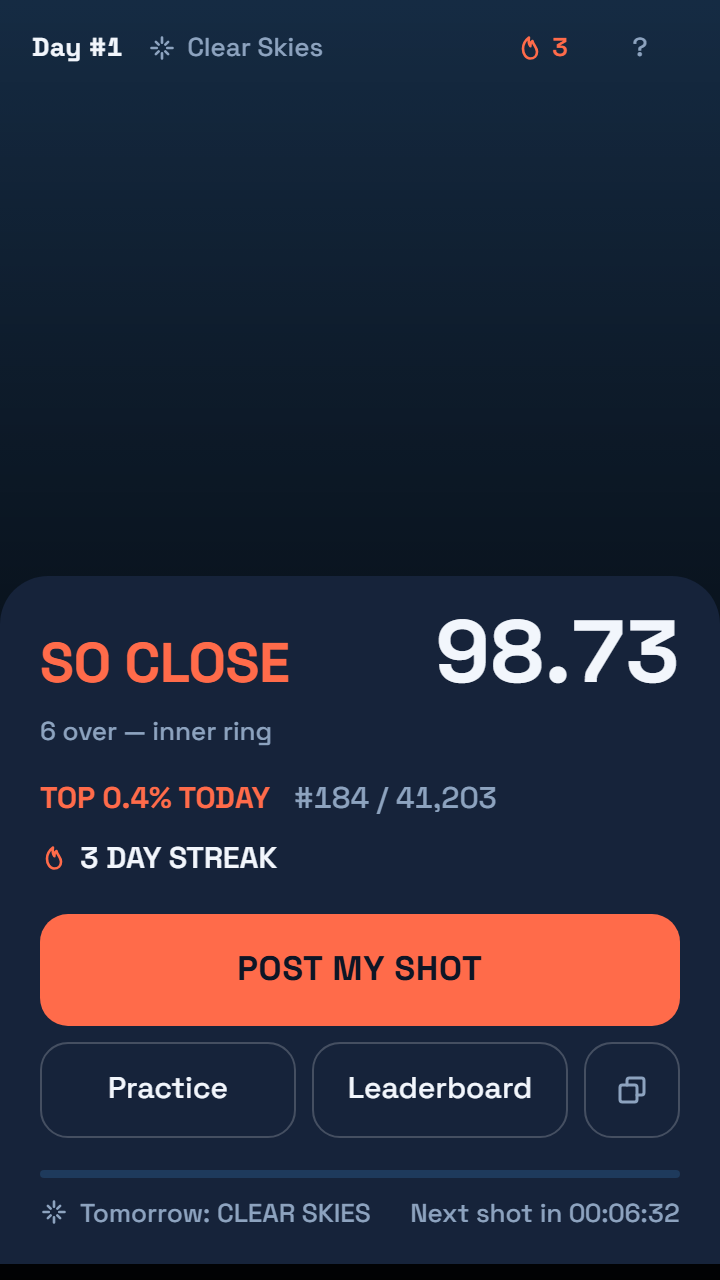
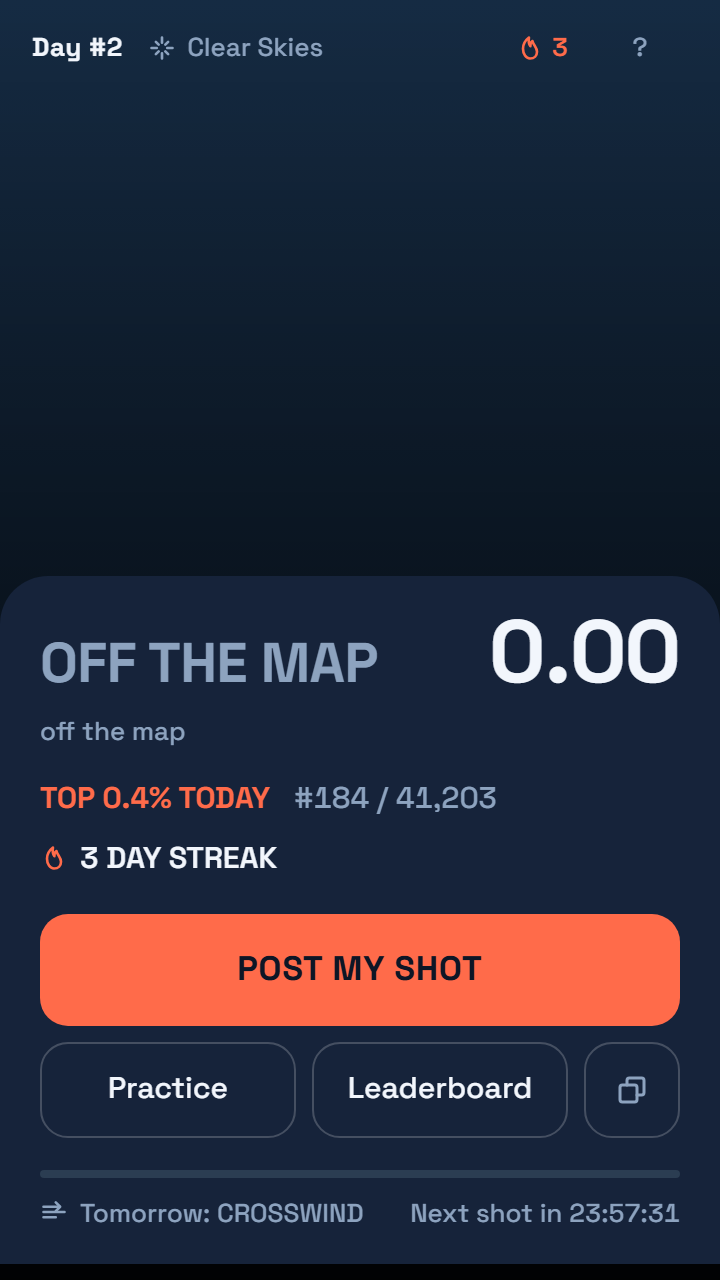
feat(ui-v2): the scene survives the verdict — result framing, and a rig that stops lying
After a shot the question stops being "can I see the whole arc" and becomes "how
close was that". So the camera stops obeying GDD 28's full-width rule -- which
it only owes while a shot is still possible -- and frames the two points that
answer it: where the ball stopped and the centre of the mat. Two floors keep it
honest: the mat never falls under 24px, and it never zooms past 2.4x the aiming
view, because a hair-thin miss should not throw the player into a microscope.

The result is §6's screen at last. Pip where he stopped, the marker, the dotted
line to the centre, and the panel rising over a world that is still there --
against a baseline whose top 40% was empty and whose scene had been wiped to
draw a number.

Getting there needed three fixes to the rig, each found by a capture that lied,
and each worth more than the screenshot it produced:

- The harness answered every shot with a fixed `dx: 6.4` and echoed back the
  client's score, so every captured result read `SO CLOSE / 6 over` however the
  ball actually flew -- a verdict function keyed on distance could not be
  checked against a single real shot. It re-simulates from holdMs now, which is
  what the real server does.
- A restored result has a score and no trajectory, so there was nothing for the
  framing to frame and the scene behind the panel came out empty. The rig can
  play a real shot now, which is also where the mediocre/near-miss/off-map
  captures come from: the day's level decides, honestly.
[…]

diff --git a/src/client/scene/camera.ts b/src/client/scene/camera.ts
@@ -36,6 +36,13 @@ const TOP_MARGIN = 120;
  */
 export const PANEL_SHARE = 0.25;
 
+/**
+ * And the share the result panel covers (§6: "~50% de la hauteur"). The scene
+ * keeps the rest, which is the whole point of the redesign: the verdict is
+ * shown *over* the world, never instead of it.
+ */
+export const RESULT_PANEL_SHARE = 0.5;
+
 export const buildCamera = (
   canvasWidth: number,
   canvasHeight: number,
@@ -58,6 +65,60 @@ export const buildCamera = (
   return {
     scale,
     originX: (canvasWidth - SPACE_W * scale) / 2,
+    originY: groundPixels,
+    width: canvasWidth,
+    height: canvasHeight,
+  };
+};
+
+/**
+ * The result framing (§6).
+ *
+ * After a shot the question is no longer "can I see the whole arc" — it is
+ * "how close was that". So the camera stops obeying GDD 28's full-width rule,
+ * which it only has to obey while a shot is still possible, and frames the two
+ * points that answer the question: where the ball stopped, and the centre of
+ * the mat.
+ *
+ * Two floors keep it honest. The mat never falls under `MIN_TARGET_PX` on
+ * screen, because a verdict about a target too small to see is not a verdict;
+ * and the framing never zooms *in* past the aiming view on a near miss, which
+ * would make a good shot feel like a different game.
+ */
+const RESULT_MARGIN = 0.12;
+const MIN_TARGET_PX = 24;
+
+export const resultFraming = (
+  canvasWidth: number,
+  canvasHeight: number,
+  impactX: number,
+  targetX: number,
+  targetR: number,
+  bottomInset: number,
+  /** The aiming camera, as the zoom floor. */
+  base: Camera
+): Camera => {
+  const left = Math.min(impactX, targetX - targetR);
+  const right = Math.max(impactX, targetX + targetR);
+  const span = Math.max(targetR * 4, right - left);
+
+  const usableWidth = canvasWidth * (1 - RESULT_MARGIN * 2);
+  const wanted = usableWidth / span;
+
+  // Never further out than the aiming view, never so close that the mat is
+  // still a dot, and never past a doubling — a hair-thin miss should not throw
+  // the player into a microscope.
+  const scale = Math.min(
+    Math.max(wanted, base.scale, MIN_TARGET_PX / Math.max(1, targetR)),
+    base.scale * 2.4
+  );
+
+  const centreX = (left + right) / 2;
+  const groundPixels = canvasHeight - bottomInset;
+
+  return {
+    scale,
+    originX: canvasWidth / 2 - centreX * scale,
     originY: groundPixels,
     width: canvasWidth,
     height: canvasHeight,

diff --git a/src/client/scene/useScene.ts b/src/client/scene/useScene.ts
@@ -22,7 +22,7 @@ import {
   slowMotionScale,
 } from '../motion.ts';
 import type { Palette } from '../theme.ts';
-import { apexOf, buildCamera, flightZoom, PANEL_SHARE } from './camera.ts';
+import { apexOf, buildCamera, flightZoom, PANEL_SHARE, resultFraming } from './camera.ts';
 import { ATMOSPHERE } from '../theme.ts';
 import type { ModifierId } from '../../shared/types.ts';
 import { PARTICLES } from '../ui/tokens.ts';
@@ -58,6 +58,13 @@ export type SceneOptions = {
   /** The shot to play back, or null while aiming. */
   readonly shot: ShotResult | null;
   readonly ghost: readonly Point[] | null;
+  /**
+   * The result panel is up, so the scene is answering "where did I land"
+   * rather than "can I see the arc" (§6).
+   */
+  readonly resultFraming: boolean;
+  /** Share of the canvas the result panel covers, so the scene stays clear. */
+  readonly resultPanelShare: number;
   readonly onAimStart: () => void;
   readonly onMisfire: () => void;
   readonly onFire: (shot: ShotResult, holdMs: number) => void;
@@ -277,7 +284,20 @@ export const useScene = (options: SceneOptions): {
       // The panel only owns the bottom of the frame while the player is
       // aiming; once the ball is away it is the scene's again.
       const inset = opts.canAim ? height * PANEL_SHARE : 0;
-      const camera = buildCamera(width, height, apex, zoom, inset);
+      const base = buildCamera(width, height, apex, zoom, inset);
+      const landed = opts.shot;
+      const camera =
+        opts.resultFraming && landed
+          ? resultFraming(
+              width,
+              height,
+              landed.impactX,
+              level.distance,
+              level.targetR,
+              height * opts.resultPanelShare,
+              base
+            )
+          : base;
 
       const shakeMagnitude =
         state.shakeLeft > 0

diff --git a/src/client/App.tsx b/src/client/App.tsx
@@ -31,6 +31,7 @@ import { UI_V2 } from './ui/flags.ts';
 import { Glyph } from './ui/Glyph.tsx';
 import { TARGET_GLYPH } from './ui/glyphs.ts';
 import { ShotQueue } from './queue.ts';
+import { RESULT_PANEL_SHARE } from './scene/camera.ts';
 import { useScene } from './scene/useScene.ts';
 import { Conditions } from './screens/Conditions.tsx';
 import { DayBar } from './screens/DayBar.tsx';
@@ -301,6 +302,12 @@ export const App = (): JSX.Element => {
     guardMisfire: phase !== 'practice_aim' && !state.misfireUsed,
     shot: state.shot,
     ghost: practiceMode && state.ghost ? state.ghost.trajectory : null,
+    resultFraming:
+      phase === 'result' ||
+      phase === 'scoring_pending' ||
+      phase === 'practice_result' ||
+      phase === 'warmup_result',
+    resultPanelShare: RESULT_PANEL_SHARE,
     onAimStart,
     onMisfire,
     onFire,

diff --git a/docs/UI-V2-LOG.md b/docs/UI-V2-LOG.md
@@ -158,3 +158,36 @@ Five lines per phase: done, verified, left. Newest at the bottom.
   twelve expressions, and half-implementing three of them now is work that phase
   throws away. The opening sequence is partial: the condition cards already
   stagger in, the sky settle and Pip's spring do not.
+
+---
+
+## Phase 4 — Result V2
+
+- **Done.** Verdicts, standing and impact direction (§10.2–10.4) in `copy.ts`;
+  `ResultV2` answering §6's seven questions in order behind `UI_V2`; the
+  `resultFraming` camera, which drops GDD 28's full-width rule once no shot is
+  possible and frames the impact and the mat instead, with the mat never under
+  24px and never zoomed past 2.4x the aiming view.
+- **Verified.** 289 tests, 25 captures, zero scroll, zero clipping. The scene
+  now stays behind the panel: Pip where he stopped, the marker, the dotted line
+  to the centre. `FIRST SHOT TODAY` is gone, and so is the second filled coral
+  block — the percentile is coral *text*, which is what §13 allows.
+- **§10.2's numbers were stale, and the spec says so itself.** Its bands are
+  score ranges explained as geometry — "87 = bord du tapis" — and the daily
+  warm-up moved the mat edge to 76. Taken literally they would tell a player
+  resting *on* the mat they had a `NEAR MISS`. The function reads dx against the
+  mat radius instead, which survives the next recalibration and fixes Tiny
+  Target days, where a fixed distance means two different things.
+- **Three tooling truths, each found by a capture that lied.** The harness
+  answered every shot with a fixed `dx: 6.4`, so every result read `SO CLOSE / 6
+  over` whatever the ball did — it re-simulates from `holdMs` now, as the real
+  server does. A restored result has no trajectory, so there was nothing to
+  frame and the scene came out empty; the rig can play a real shot now. And the
+  shoot step released after `0ms` because an escaping slip wrote `${'${step.
+  shoot}'}` into the file, which `setTimeout` coerced to zero — the misfire
+  guard then swallowed every shot, exactly as designed. Captures now print the
+  screen they reached, because a capture of the wrong screen looks like evidence.
+- **Left:** the direction label is in the panel but not yet drawn beside the
+  line in the scene; the streak increment does not animate; Bullseye and Perfect
+  have no celebration yet (phase 7); the tomorrow band is a thin strip and could
+  read stronger.
